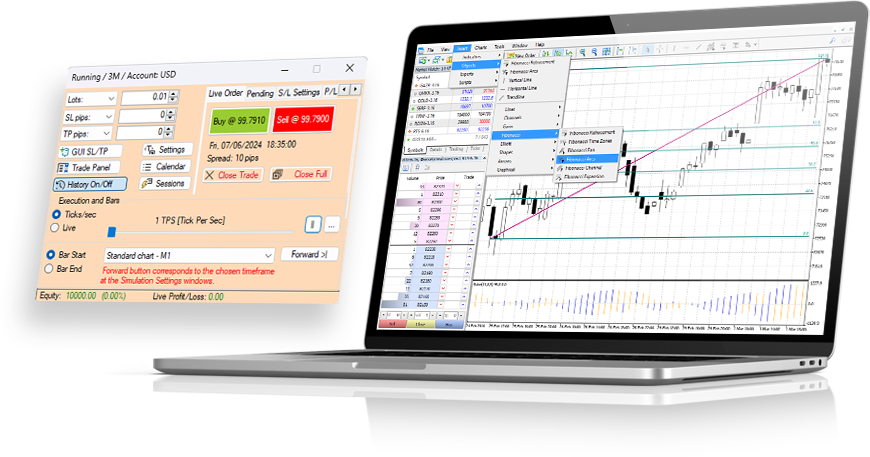
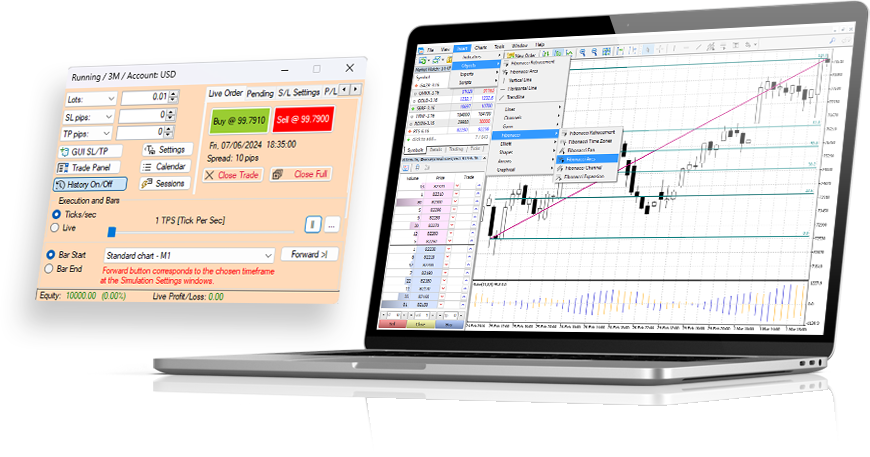
Fix MT5 Simulator checkmarks and product image background
Use solid Market Green checks with white icons, drop the dark product
plate, and cut the black backdrop from the trading mockup.

Changed region(s): [[0.4034, 0.8578, 0.9621, 0.919]]

diff --git a/mockups/styles.css b/mockups/styles.css
@@ -5025,11 +5025,18 @@ h3,
   border-radius: 999px;
   display: grid;
   place-items: center;
-  color: var(--green);
-  background: rgba(255, 255, 255, 0.14);
-  border: 1px solid rgba(71, 189, 104, 0.45);
+  color: #fff;
+  background: linear-gradient(180deg, #56c976 0%, #3fb05e 100%);
+  border: 1px solid rgba(255, 255, 255, 0.35);
+  box-shadow:
+    0 6px 14px rgba(71, 189, 104, 0.35),
+    inset 0 1px 0 rgba(255, 255, 255, 0.35);
   flex-shrink: 0;
   margin-top: 0.05rem;
+}
+
+.mt5-sim__check svg {
+  display: block;
 }
 
 .mt5-sim__actions {
@@ -5074,8 +5081,8 @@ h3,
   height: auto;
   display: block;
   border-radius: 16px;
-  background: #0a1018;
-  box-shadow: 0 16px 36px rgba(8, 14, 22, 0.35);
+  background: transparent;
+  box-shadow: none;
 }
 
 @media (min-width: 900px) {

diff --git a/mockups/index.html b/mockups/index.html
@@ -16,7 +16,7 @@
     />
     <link rel="icon" type="image/png" href="./assets/logo/logo-isotype-app.png" />
     <link rel="apple-touch-icon" href="./assets/logo/logo-isotype-app.png" />
-    <link rel="stylesheet" href="./styles.css?v=35" />
+    <link rel="stylesheet" href="./styles.css?v=37" />
   </head>
   <body>
     <header class="site-chrome" id="site-chrome">
@@ -959,7 +959,7 @@
               <div class="mt5-sim__visual">
                 <img
                   class="mt5-sim__product"
-                  src="./assets/mt5-sim/mt5_trading.png"
+                  src="./assets/mt5-sim/mt5_trading.png?v=3"
                   alt="MT5 Simulator trading platform and control panel"
                   width="870"
                   height="457"
